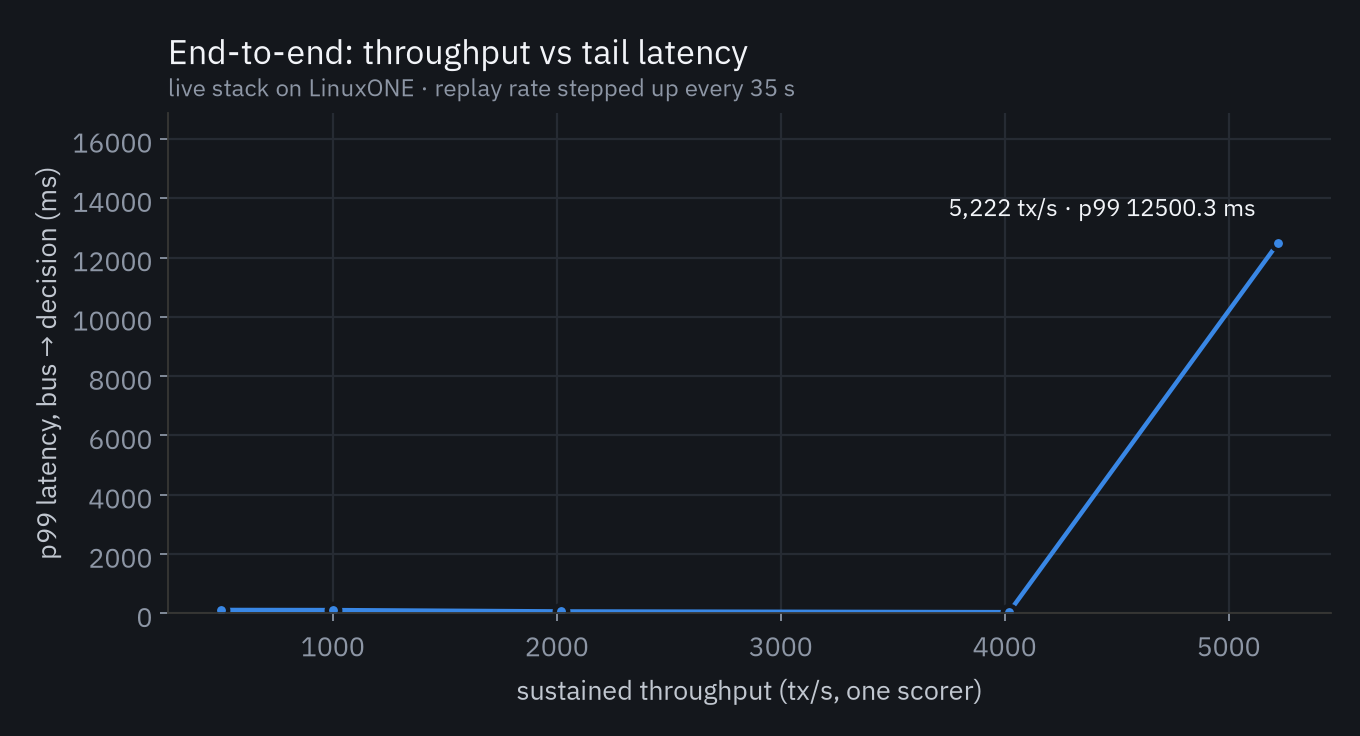
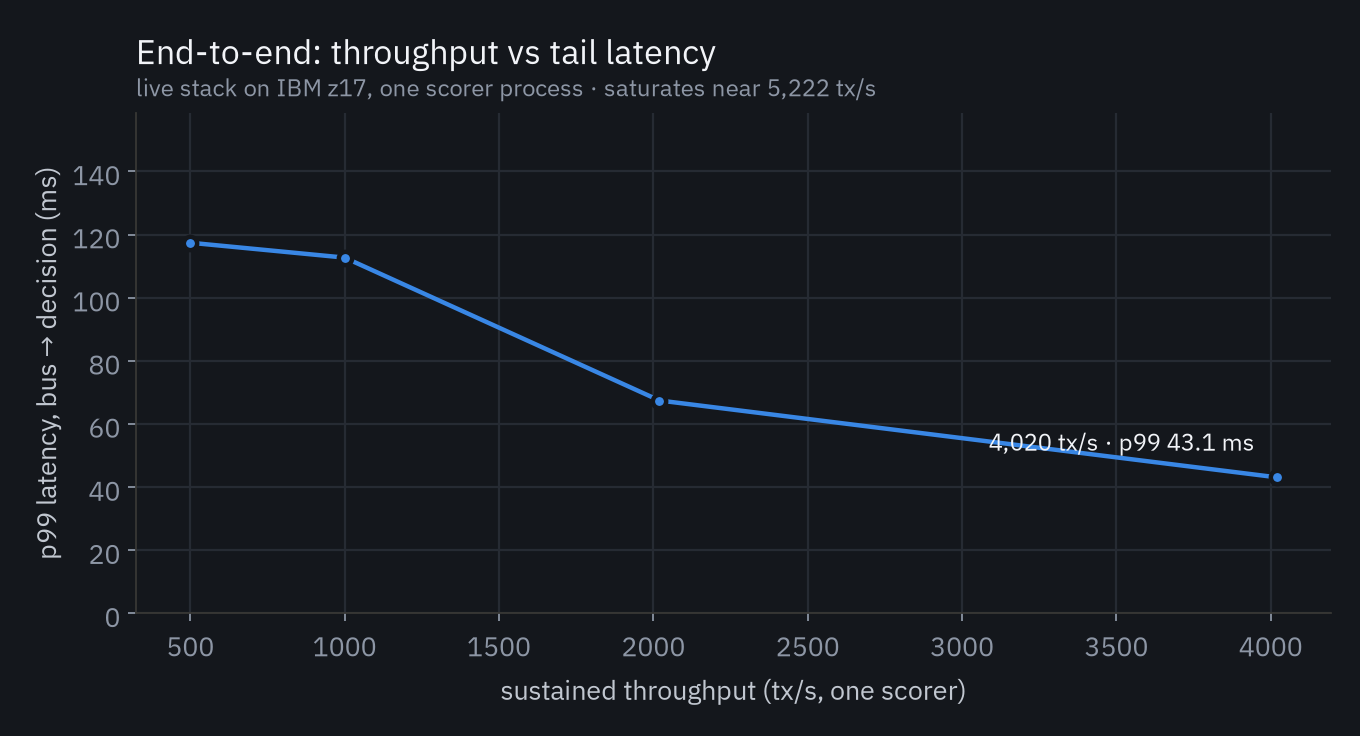
Video pipeline: live re-shoot, rate control, retries; proof-panel fixes; load-test chart

diff --git a/web/static/app.js b/web/static/app.js
@@ -303,9 +303,9 @@
       check(p.web?.machine === "s390x", "Running on IBM Z (s390x)", esc(archs)),
       check(mt ? true : null, "Processor", esc(mt ? `${MACHINES[mt[1]] || "machine type " + mt[1]}\n${p.cpu.processor0}` : "not reported")),
       check(!!p.cpu?.nnpa_flag, "Telum on-chip AI accelerator (NNPA facility)", "CPU feature flag 'nnpa' in /proc/cpuinfo: " + (p.cpu?.nnpa_flag ? "present" : "absent")),
-      check((sc.tf_devices || []).some((d) => /NNPA/i.test(d)), "TensorFlow sees the accelerator", esc((sc.tf_devices || []).join(", ") || "not reported") + `\nTF ${esc(sc.tf_version || "")}`),
-      check(speed ? Number(speed) > 1 : null, "LSTM scoring: default placement vs pinned CPU", speed ? `batch 128 · default ${lat.default} ms · CPU ${lat.cpu} ms · ${speed}x` : esc(sc.accel_probe_error || "not measured")),
-      check(g.mode === "granite", "IBM Granite running on this server (llama.cpp)", esc(`${g.model || "–"} (${g.model_gb ?? "–"} GB) · zDNN libs: ${(g.zdnn_libs || []).join(", ") || "none"} · offload layers ${g.n_gpu_layers ?? "–"} · ${g.tokens_per_s ?? "–"} tok/s`)),
+      check(zlibs.some((l) => /libzdnn/.test(l)) && zlibs.some((l) => /_z_ops/.test(l)), "Scorer has the IBM zDNN libraries loaded", esc(zlibs.join(", ") || sc.accel_probe_error || "none found") + `\nTensorFlow ${esc(sc.tf_version || "")} · ibm-zdnn-plugin kernels`),
+      check(speed ? Number(speed) > 1 : null, "LSTM scoring: zDNN plugin vs plain CPU kernels", speed ? `batch ${ab.batch} · with zDNN ${ab.nnpa_us_per_tx} µs/transfer · without ${ab.cpu_us_per_tx} µs/transfer · ${speed}x faster` : "A/B benchmark not run yet"),
+      check(g.mode === "granite", "IBM Granite running on this server", esc(`${g.model || "–"} · ${g.server || "llama.cpp"}${g.build ? " (" + g.build + ")" : ""} · ${g.tokens_per_s ?? "–"} tok/s`)),
       check(g.egress_blocked === true, "AI containers cannot reach the internet", "outbound TCP 1.1.1.1:443 from the genai container: " + (g.egress_blocked ? "blocked" : g.egress_blocked === false ? "OPEN" : "not tested")),
       check(h.luks ? true : null, "Data at rest encrypted (LUKS2 / dm-crypt)", esc(h.luks ? `${h.luks.type} · ${h.luks.cipher} · ${h.luks.keysize} bits · ${h.luks.device} → ${h.luks.mount}` : "host report not found")),
       check((p.cpacf_crypto_drivers || []).length > 0, "Crypto on CPACF hardware", esc((p.cpacf_crypto_drivers || []).slice(0, 8).join(", ") || "no s390 crypto drivers listed")),

diff --git a/video/record_live.py b/video/record_live.py
@@ -1,0 +1,101 @@
+"""Re-shoot the live-overview clip once the replay has covered most of a test day, so the KPI
+tiles show representative running totals (not the first few minutes after midnight).
+
+    python video/record_live.py --url http://<vm-ip>:8080 --token <demo token>
+"""
+from __future__ import annotations
+
+import argparse
+import json
+import time
+import urllib.request
+from pathlib import Path
+
+from playwright.sync_api import sync_playwright
+
+HERE = Path(__file__).resolve().parent
+BUILD = HERE / "build"
+SPOT_CSS = (".sb-dim { opacity: .22 !important; filter: saturate(.4); }"
+            ".sb-lit { box-shadow: 0 0 0 2px #2c4f9e, 0 0 40px rgba(69,137,255,.18); }")
+
+
+def call(url: str, path: str, token: str, body: dict | None = None) -> dict:
+    for _ in range(6):
+        try:
+            req = urllib.request.Request(f"{url}{path}", method="POST" if body is not None else "GET",
+                                         data=json.dumps(body).encode() if body is not None else None,
+                                         headers={"Content-Type": "application/json", "X-Demo-Token": token})
+            return json.loads(urllib.request.urlopen(req, timeout=15).read())
+        except OSError:
+            time.sleep(2)
+    raise SystemExit(f"cannot reach {url}{path}")
+
+
+def sim_minutes(sim: str) -> int:
+    day, hm = sim.replace("Day ", "").split(" ")
+    h, m = hm.split(":")
+    return (int(day) - 1) * 1440 + int(h) * 60 + int(m)
+
+
+def main() -> None:
+    ap = argparse.ArgumentParser()
+    ap.add_argument("--url", required=True)
+    ap.add_argument("--token", required=True)
+    ap.add_argument("--until", default="Day 9 21:00", help="replay clock to reach before shooting")
+    ap.add_argument("--fast-tps", type=float, default=4000)
+    ap.add_argument("--tps", type=float, default=2000)
+    args = ap.parse_args()
+    url = args.url.rstrip("/")
+    target = sim_minutes(args.until)
+    m = call(url, "/api/state", args.token)["metrics"]
+    if not m.get("sim") or sim_minutes(m["sim"]) < target:
+        call(url, "/api/replay", args.token, {"tps": args.fast_tps, "paused": False})
+        while True:
+            m = call(url, "/api/state", args.token)["metrics"]
+            if m.get("sim") and sim_minutes(m["sim"]) >= target:
+                break
+            print("replay clock", m.get("sim"), flush=True)
+            time.sleep(5)
+    call(url, "/api/replay", args.token, {"tps": args.tps, "paused": False})
+    for _ in range(60):  # wait until any backlog has drained and tail latency is steady
+        m = call(url, "/api/state", args.token)["metrics"]
+        print("settling: p99", round(m.get("p99_ms", 0)), "ms at", round(m.get("tps", 0)), "tx/s", flush=True)
+        if m.get("p99_ms", 1e9) < 150 and m.get("tps", 0) > 0.8 * args.tps:
+            break
+        time.sleep(5)
+    out = BUILD / "live_rec"
+    out.mkdir(parents=True, exist_ok=True)
+    with sync_playwright() as p:
+        b = p.chromium.launch(channel="msedge", headless=True)
+        ctx = b.new_context(viewport={"width": 1920, "height": 1080}, record_video_dir=str(out),
+                            record_video_size={"width": 1920, "height": 1080})
+        page = ctx.new_page()
+        t0 = time.time()
+        page.goto(url, wait_until="domcontentloaded")
+        page.add_style_tag(content=SPOT_CSS)
+        page.wait_for_timeout(16000)  # charts fill, metrics settle at the steady rate
+        page.evaluate("""() => { for (const s of ['header.top','.phonecol','.casecol','footer.controls'])
+                                   document.querySelector(s)?.classList.add('sb-dim');
+                                 for (const s of ['.kpis','.feed']) document.querySelector(s)?.classList.add('sb-lit'); }""")
+        start = time.time() - t0
+        page.wait_for_timeout(9000)
+        end = time.time() - t0
+        m = call(url, "/api/state", args.token)["metrics"]
+        video = page.video
+        ctx.close()
+        b.close()
+        src = Path(video.path())
+    dst = BUILD / "live.webm"
+    if dst.exists():
+        dst.unlink()
+    src.rename(dst)
+    live = json.loads((BUILD / "live.json").read_text())
+    live.update(tps=m.get("tps", 0), p99=m.get("p99_ms", 0), p50=m.get("p50_ms", 0),
+                live_clip=[round(start, 2), round(end, 2)],
+                kpi_scam_usd_share=m["scam_usd_held"] / max(1.0, m["scam_usd_seen"]))
+    (BUILD / "live.json").write_text(json.dumps(live, indent=2, default=float))
+    print("live clip", dst, live["live_clip"], {k: live[k] for k in ("tps", "p99", "kpi_scam_usd_share")})
+
+
+if __name__ == "__main__":
+    main()

diff --git a/video/record.py b/video/record.py
@@ -46,8 +46,27 @@ def main() -> None:
     ap.add_argument("--url", required=True)
     ap.add_argument("--token", default="")
     ap.add_argument("--llm-timeout", type=float, default=300.0)
+    ap.add_argument("--tps", type=float, default=0.0, help="set the replay rate before recording")
+    ap.add_argument("--scenario-tps", type=float, default=300.0, help="replay rate while scenarios run")
     args = ap.parse_args()
     url = args.url.rstrip("/")
+    import urllib.request  # noqa: PLC0415
+
+    def set_rate(tps: float) -> None:
+        req = urllib.request.Request(f"{url}/api/replay", method="POST",
+                                     data=json.dumps({"tps": tps, "paused": False}).encode(),
+                                     headers={"Content-Type": "application/json", "X-Demo-Token": args.token})
+        for attempt in range(5):  # the cloud network occasionally drops a connection
+            try:
+                print("replay:", urllib.request.urlopen(req, timeout=15).read().decode(), flush=True)
+                return
+            except OSError as e:
+                print("replay retry", attempt + 1, e, flush=True)
+                time.sleep(2)
+        raise SystemExit("could not set the replay rate")
+
+    if args.tps:
+        set_rate(args.tps)
     out = BUILD / "demo"
     out.mkdir(parents=True, exist_ok=True)
     marks: dict[str, list[float]] = {}
@@ -74,6 +93,8 @@ def main() -> None:
         marks["live"] = [s, now()]
         st = page.request.get(f"{url}/api/state").json()["metrics"]
         live.update(tps=st.get("tps", 0), p99=st.get("p99_ms", 0), p50=st.get("p50_ms", 0))
+        if args.tps:
+            set_rate(args.scenario_tps)  # give the on-box LLM the CPU while scenarios run
 
         # Mdm Tan
         spotlight(page, [".phonecol", ".casecol"])
@@ -127,6 +148,9 @@ def main() -> None:
         live.update(aisha=ca.get("decision"), aisha_ms=ca.get("latency_ms"))
 
         # platform proof panel
+        if args.tps:
+            set_rate(args.tps)
+            page.wait_for_timeout(12000)  # live metrics recover to the full replay rate
         spotlight(page, [])
         s = now()
         page.click("#proof-btn")

diff --git a/video/make.py b/video/make.py
@@ -73,6 +73,7 @@ def fill(text: str, live: dict, metrics: dict, nnpa: dict | None) -> str:
                 nnpa_text = "The behaviour model is scored on the Telum processor in micro-batches of transfers."
     vals = {
         "tps": words(live.get("tps", 0)), "p99": f"{live.get('p99', 0):.0f}",
+        "p50": f"{5 * round(live.get('p50', 0) / 5):.0f}",
         "tan_decision": {"BLOCK": "Blocked", "HOLD": "Held"}.get(live.get("tan_decision"), "Flagged"),
         "tan_ms": f"{live.get('tan_ms', 0):.0f}", "ravi_text": ravi_text, "aisha_text": aisha,
         "nnpa_text": nnpa_text,
@@ -208,6 +209,9 @@ def main() -> None:
                     clip_part(item[1], item[2], item[3], item[4], po)
                 pieces.append(po)
             concat(pieces, out)
+        elif ref == "live" and (BUILD / "live.webm").exists() and live.get("live_clip"):
+            s, e = live["live_clip"]  # re-shot once the replay covered most of a test day
+            clip_part(BUILD / "live.webm", s, e, d, out)
         else:
             s, e = marks[ref]
             clip_part(demo, s, e, d, out)

diff --git a/scambreaker/report.py b/scambreaker/report.py
@@ -130,7 +130,9 @@ def nnpa(bench: dict, out: Path) -> None:
 
 
 def e2e(bench: dict, out: Path) -> None:
-    steps = bench.get("steps") or []
+    allsteps = bench.get("steps") or []
+    steps = [s for s in allsteps if s["p99_ms"] < 1000]  # unthrottled step saturates: queue grows
+    sat = [s for s in allsteps if s["p99_ms"] >= 1000]
     if not steps:
         return
     fig, ax = plt.subplots(figsize=(8.5, 4.6))
@@ -143,7 +145,8 @@ def e2e(bench: dict, out: Path) -> None:
     ax.set_xlabel("sustained throughput (tx/s, one scorer)")
     ax.set_ylabel("p99 latency, bus → decision (ms)")
     ax.set_ylim(0, max(y) * 1.35)
-    _title(ax, "End-to-end: throughput vs tail latency", "live stack on LinuxONE · replay rate stepped up every 35 s")
+    note = f" · saturates near {sat[0]['achieved_tps']:,.0f} tx/s" if sat else ""
+    _title(ax, "End-to-end: throughput vs tail latency", f"live stack on IBM z17, one scorer process{note}")
     fig.tight_layout()
     fig.savefig(out / "e2e.png", dpi=160)
     plt.close(fig)

diff --git a/scambreaker/serve/replayer.py b/scambreaker/serve/replayer.py
@@ -6,6 +6,7 @@ Rate and pause can be changed live through the `replay:control` key (set by the 
 from __future__ import annotations
 
 import argparse
+import platform
 import socket
 import time
 from pathlib import Path
@@ -76,7 +77,8 @@ def run(argv: list[str] | None = None) -> None:
                     time.sleep(ahead)
                 if time.time() - t0 > 5:  # re-anchor so rate changes apply quickly
                     t0, sent = time.time(), 0
-            bus.set("proof:replayer", {"service": "replayer", "host": socket.gethostname(), "loop": loop_no,
+            bus.set("proof:replayer", {"service": "replayer", "host": socket.gethostname(), "machine": platform.machine(),
+                                       "loop": loop_no,
                                        "progress": round((i - start) / n, 4), "events_total": n, "tps_target": tps,
                                        "ts": time.time()})
         if not args.loop:

diff --git a/scambreaker/serve/web.py b/scambreaker/serve/web.py
@@ -204,8 +204,9 @@ def _crypto_drivers() -> list[str]:
         txt = Path("/proc/crypto").read_text()
     except OSError:
         return []
-    return sorted({ln.split(":", 1)[1].strip() for ln in txt.splitlines()
-                   if ln.startswith("driver") and "s390" in ln})
+    drivers = {ln.split(":", 1)[1].strip() for ln in txt.splitlines() if ln.startswith("driver") and "s390" in ln}
+    first = [d for d in ("xts-aes-s390", "gcm-aes-s390", "sha256-s390", "sha512-s390") if d in drivers]
+    return first + sorted(drivers - set(first))
 
 
 def _cpu() -> dict:

diff --git a/scambreaker/serve/genai.py b/scambreaker/serve/genai.py
@@ -135,6 +135,9 @@ class LLM:
 
 def backend_info(llm: LLM | None) -> dict:
     info: dict = {}
+    if llm and llm.url:  # served by the llama.cpp server container (s390x build with VXE)
+        return {"server": "llama.cpp server · s390x VXE build", "model": Path(llm.path).name if llm.path else None,
+                "build": getattr(llm, "build", None)}
     try:
         import llama_cpp  # noqa: PLC0415
 

diff --git a/README.md b/README.md
@@ -41,7 +41,7 @@ Everything below was measured on our LinuxONE Community Cloud VM: an **IBM z17**
 | **CPACF crypto + encryption at rest** | All data, models and the audit trail live on a **LUKS2 volume (AES-XTS, 512-bit key)**. The kernel uses the `xts-aes-s390` driver, i.e. the CPACF crypto unit. | `cryptsetup status`, `/proc/crypto` ([evidence](docs/evidence/)) |
 | **Containers + isolation** | Docker Compose with six services. The AI services sit on an `internal` network **with no route to the internet**, run as non-root with all capabilities dropped and `no-new-privileges`. | Live check: an outbound connection from the Granite container fails ([evidence](docs/evidence/)) |
 | **Tamper-evident audit** | Every non-ALLOW decision is appended to a SHA-256 hash-chained log; `verify` detects any edit. | Live "Platform proof" panel → *Verify hash chain now* |
-| **Throughput and latency** | A point-in-time feature engine and the models in one stateful scorer, fed by Redis Streams. | Replaying the test days at **1,520 transfers/s: p50 19 ms, p99 80 ms**, measured from bus to decision. The feature engine processes about 60K events/s; full training takes 203 s on 3 vCPUs. |
+| **Throughput and latency** | A point-in-time feature engine and the models in one stateful scorer, fed by Redis Streams. | One scorer process sustains **4,020 transfers/s at p99 43 ms** (bus to decision) and saturates near 5,200/s ([chart](docs/results/e2e.png)). The feature engine processes about 60K events/s; full training takes 203 s on 3 vCPUs. |
 
 The console's **Platform proof** panel recomputes these facts live on the server (architecture, NNPA flag, loaded zDNN libraries, LUKS/CPACF, egress, audit chain). Nothing is hard-coded.
 
